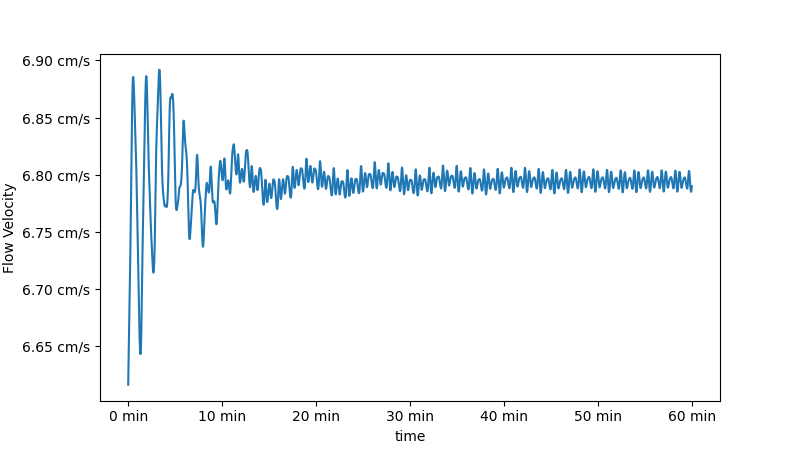
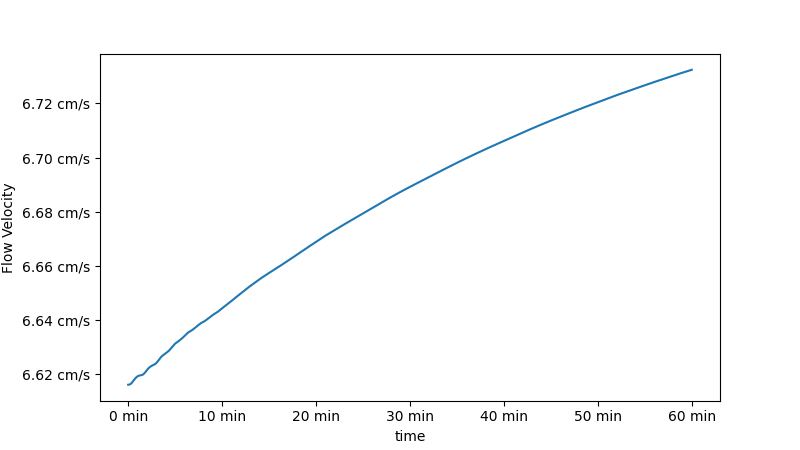
fluid inertia - flow rate must accelerate

diff --git a/functions.py b/functions.py
@@ -84,18 +84,23 @@ def DiffP(T_x):                 #input Celcius
     hot=density(list_ave(TempProfile.hotleg(T_x)))
     cold=density(list_ave(TempProfile.coldleg(T_x)))            #calculate average density of cold leg
     return (cold-hot)*params.h*9.81     #output Pa
+
 #___________________________________________________________________________
 
 def Velo(T_x):                                 #input Celcius
     DrivingForce=DiffP(T_x)                    #Convert Differential Pressure
     rho=density(list_ave(T_x))                #Calculate Average Density of entire Loop
     v_squared = (2*DrivingForce)/(params.xi*rho)
-    #if v_squared<0.01**2:    v_squared=0.01**2
-    #if v_squared>0.15**2:    v_squared=0.15**2
     v = np.sqrt(v_squared)   #output m/s
     return v# 0.05 #m/s
 #___________________________________________________________________________
-
+def Velo2nd(T_x,v_old): #input Celcius and m/s
+    DrivingForce=DiffP(T_x)  #output Pa
+    rho=density(list_ave(T_x)) 
+    Friction = (params.xi*rho*v_old**2)/2 #output Pa
+    Pnet = DrivingForce-Friction
+    accel = Pnet/rho/loop.Ri2
+    return v_old+accel*params.dt #output m/s
 
 #___________________________________________________________________________
 

diff --git a/simulation.py b/simulation.py
@@ -87,7 +87,8 @@ The time loop makes the simulator calculate the new values necessary to advance 
 '''
 for step in tqdm(t[1:]):
     T_x = TempProfile.advance(T_x, v ,Qcore_t[-1], Qhex_t[step-1])
-    vnew = functions.Velo(T_x)
+    #vnew = functions.Velo(T_x)
+    vnew = functions.Velo2nd(T_x,v_t[-1])
     v_t.append(vnew)
     T_x_t.append(T_x)
 
